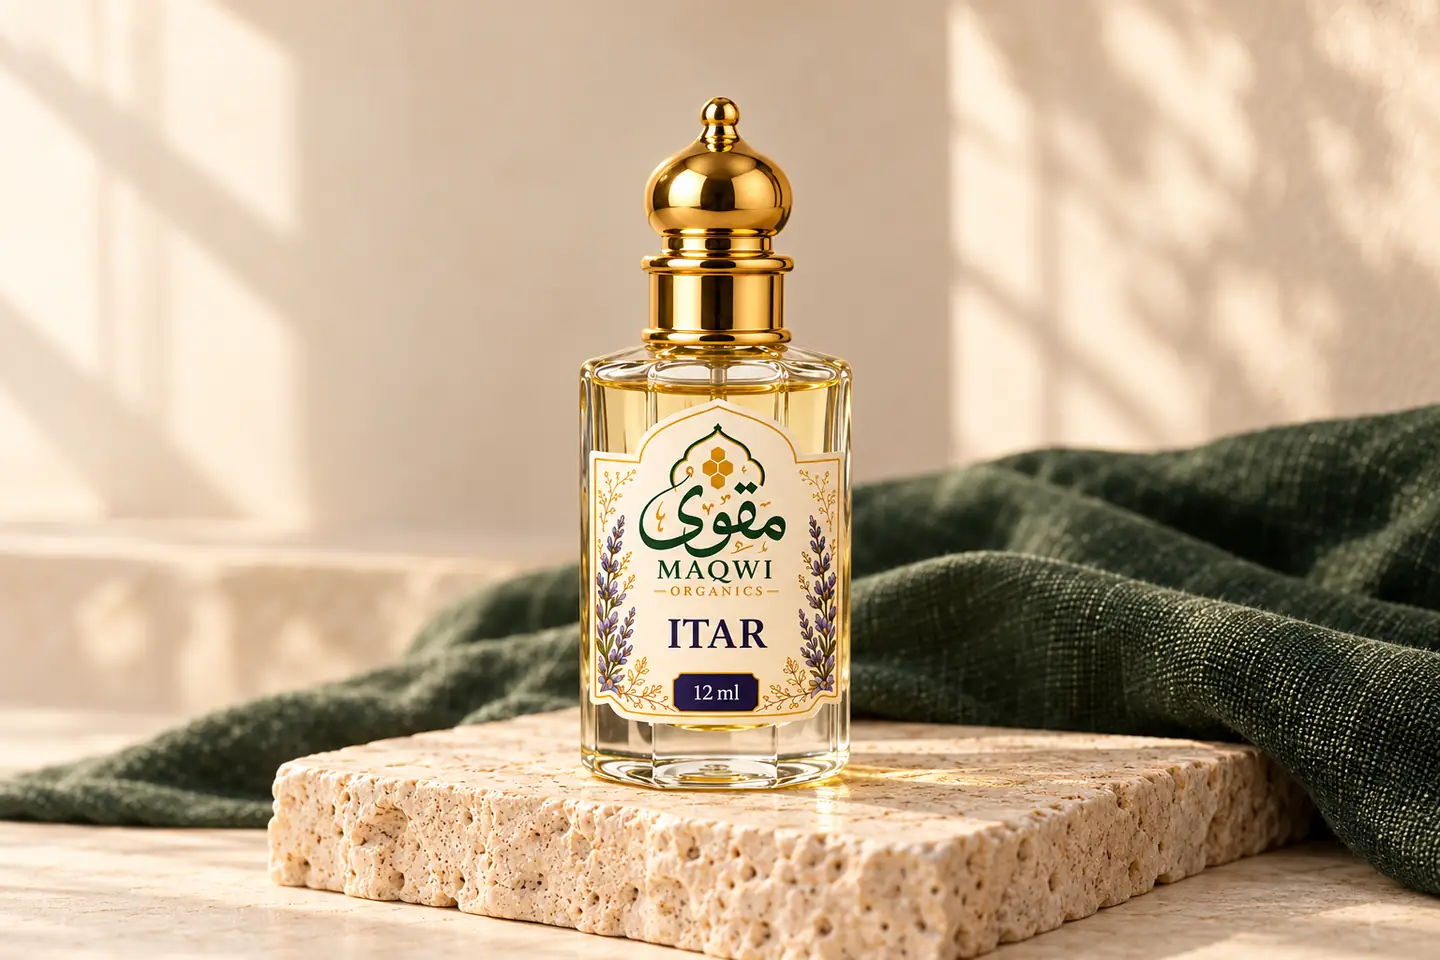
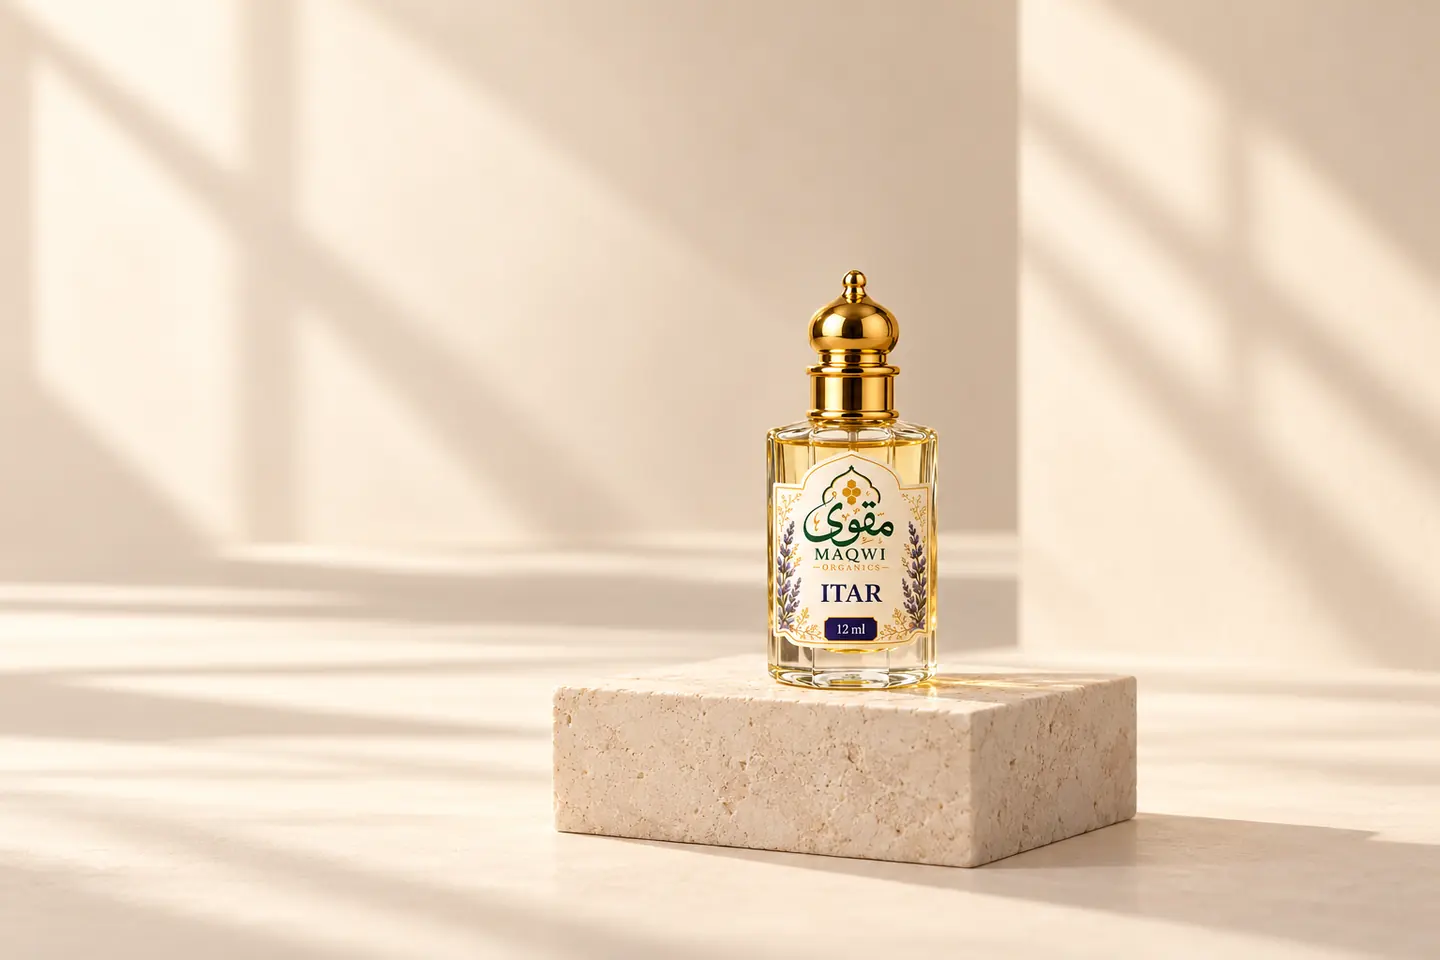
[hero-release] Replace hero props with minimal studio product photography

diff --git a/wp-content/themes/maqwi-organics/assets/public.js b/wp-content/themes/maqwi-organics/assets/public.js
@@ -62,7 +62,7 @@
  const controls=gallery.querySelector('.mq-hero-controls');
  if(slides.length<2||!controls)return;
  const dots=[...gallery.querySelectorAll('[data-slide]')],pause=gallery.querySelector('.mq-hero-pause');
- const names=['The collection','For your table','Personal fragrance'];
+ const names=['The collection','Honey & Ghee','Personal fragrance'];
  const motion=window.matchMedia('(prefers-reduced-motion: reduce)');
  let active=0,userPaused=motion.matches,hovering=false,visible=true,timer=null;
  const sync=()=>{

diff --git a/wp-content/themes/maqwi-organics/style.css b/wp-content/themes/maqwi-organics/style.css
@@ -3,7 +3,7 @@ Theme Name: Maqwi Organics
 Description: Lightweight Kadence child theme with an editable Maqwi homepage pattern.
 Author: Maqwi Organics
 Template: kadence
-Version: 0.9.1
+Version: 0.9.2
 Requires at least: 6.6
 Requires PHP: 8.1
 Text Domain: maqwi-organics

diff --git a/wp-content/themes/maqwi-organics/functions.php b/wp-content/themes/maqwi-organics/functions.php
@@ -6,9 +6,9 @@ defined( 'ABSPATH' ) || exit;
 function maqwi_premium_hero() {
     $assets = get_stylesheet_directory_uri() . '/assets/images/';
     $slides = array(
-        array( 'file' => 'hero-collection-v3.webp', 'alt' => 'Maqwi Honey and Desi Ghee labelled 1 kg, Achaar and 12 ml Itar on cream stone', 'name' => 'The collection' ),
-        array( 'file' => 'hero-table-v3.webp', 'alt' => 'Maqwi Honey and Desi Ghee labelled 1 kg beside roti and a honey dipper', 'name' => 'For your table' ),
-        array( 'file' => 'hero-itar-v3.webp', 'alt' => 'Maqwi Itar in a gold-capped 12 ml bottle on cream stone with green linen', 'name' => 'Personal fragrance' ),
+        array( 'file' => 'hero-collection-v3.webp', 'alt' => 'Maqwi Honey and Desi Ghee labelled 1 kg, Achaar and 12 ml Itar in a minimal ivory studio', 'name' => 'The collection' ),
+        array( 'file' => 'hero-table-v3.webp', 'alt' => 'Maqwi Honey and Desi Ghee labelled 1 kg on understated ivory display plinths', 'name' => 'Honey & Ghee' ),
+        array( 'file' => 'hero-itar-v3.webp', 'alt' => 'Maqwi Itar in a gold-capped 12 ml bottle on a pale stone studio plinth', 'name' => 'Personal fragrance' ),
     );
     ob_start(); ?>
     <section class="mq-premium-hero mq-slideshow-hero" aria-labelledby="mq-premium-title">
@@ -25,7 +25,7 @@ function maqwi_premium_hero() {
             <div class="mq-premium-media">
                 <?php foreach ( $slides as $index => $slide ) : ?>
                 <figure class="mq-hero-slide<?php echo 0 === $index ? ' is-active' : ''; ?>" role="group" aria-roledescription="slide" aria-label="<?php echo esc_attr( ( $index + 1 ) . ' of 3: ' . $slide['name'] ); ?>"<?php if ( $index ) { echo ' hidden'; } ?>>
-                    <img src="<?php echo esc_url( $assets . $slide['file'] ); ?>" alt="<?php echo esc_attr( $slide['alt'] ); ?>" width="1440" height="960" loading="<?php echo $index ? 'lazy' : 'eager'; ?>" decoding="async"<?php if ( ! $index ) { echo ' fetchpriority="high"'; } ?>>
+                    <img src="<?php echo esc_url( $assets . $slide['file'] . '?v=studio-1' ); ?>" alt="<?php echo esc_attr( $slide['alt'] ); ?>" width="1440" height="960" loading="<?php echo $index ? 'lazy' : 'eager'; ?>" decoding="async"<?php if ( ! $index ) { echo ' fetchpriority="high"'; } ?>>
                 </figure>
                 <?php endforeach; ?>
             </div>
@@ -268,7 +268,7 @@ add_action( 'woocommerce_before_shop_loop', function () {
 
 /** Clear page caches once after the reviewed campaign release. */
 add_action( 'wp_loaded', function () {
-    if ( get_option( 'maqwi_hero_scene_release' ) === '2026-10-17-carousel-2' ) { return; }
-    update_option( 'maqwi_hero_scene_release', '2026-10-17-carousel-2', false );
+    if ( get_option( 'maqwi_hero_scene_release' ) === '2026-10-17-studio-1' ) { return; }
+    update_option( 'maqwi_hero_scene_release', '2026-10-17-studio-1', false );
     if ( function_exists( 'w3tc_flush_all' ) ) { w3tc_flush_all(); }
 }, 55 );

diff --git a/docs/HERO-CAROUSEL-20261017.md b/docs/HERO-CAROUSEL-20261017.md
@@ -37,3 +37,17 @@ The first seven-width interaction review passed layout, manual navigation, autop
 ## Larger photographic treatment
 
 The owner reviewed the inset layout and requested stronger product scale. The refinement restores an edge-to-edge desktop campaign treatment with a cream fade behind the copy, larger imagery and controls over the photograph. Desktop height is bounded at 620–680 px; the 1366 × 768 laptop view retains the start of the collection. Tablet photography fills a 440 px panel below the copy; phone photography extends to both viewport edges in a 4:3 panel. The three scenes, corrected hero label sizes, headline, shorter copy and slideshow interactions are retained. The Itar-only desktop image uses contain sizing to retain the complete bottle.
+
+## Minimal studio imagery revision
+
+The owner approved the larger hero layout but requested smaller objects inside the photographs and removal of irrelevant food and fabric props. The layout dimensions and slideshow behaviour stay the same. The three campaign assets are replaced with minimal studio scenes: the four-product collection, Honey & Ghee on low ivory plinths, and Itar on a pale stone plinth. A new image query revision avoids stale browser copies. Product labels retain the listed 1 kg honey/ghee and 12 ml Itar; no unconfirmed achaar quantity appears.
+
+Generation mode: built-in image generation, editing each preceding hero photograph with the authoritative logo reference. New prompt set supersedes the earlier styling instructions:
+
+Shared prompt: Professional minimal studio campaign photograph for a website hero, landscape 1536x1024. Preserve product packaging design and updated green-and-gold Urdu logo. Zoom out substantially; products must look smaller and properly scaled rather than oversized close-ups. Seamless warm ivory/cream studio cyclorama, fine matte limestone or ivory plinths, delicate geometric architectural light and shadow, diffused directional studio light, controlled glass and gold reflections. Remove all cloth, fabric, linen, drapery, roti, chapati, bread, plates, bowls, honey dippers, spilled honey, flowers, leaves, branches, plants, scattered food, ingredients and clutter. Only specified packaged products and geometric display plinths. Generous negative space on all sides. No claims, certification badges, text overlays, UI, watermark or border. Label size text exactly 1 kg for honey/ghee and 12 ml for Itar; achaar has no quantity. Legible product names and Maqwi branding.
+
+Collection: Exactly four products, with realistic relative scale. Three spaced jars and the small Itar bottle forward at the right. Group width around 58% of image; tallest jar 43% of image height; grouping slightly right of centre on one or two low rectangular pale limestone platforms.
+
+Honey & Ghee: Exactly two jars, each marked 1 kg, at two subtle depths on low matte ivory geometric studio plinths. Each jar at most 43% of frame height; grouping in the middle 48% of image width, slightly right of centre. Camera pulled back, no other objects.
+
+Itar: Exactly one small Maqwi Itar 12 ml bottle retaining its transparent glass shape, gold domed cap and label. Entire bottle 45% of frame height with generous clear space, on one understated pale limestone cube, slightly right of centre. No other objects.
